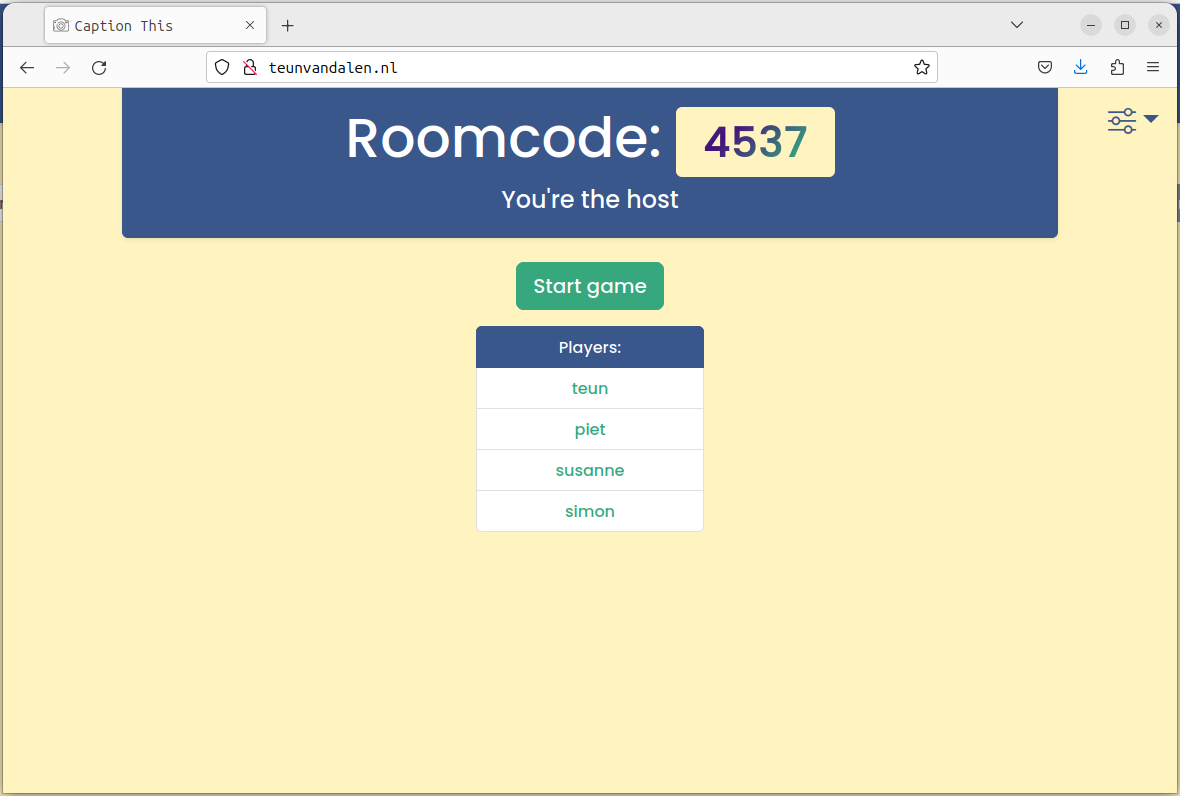
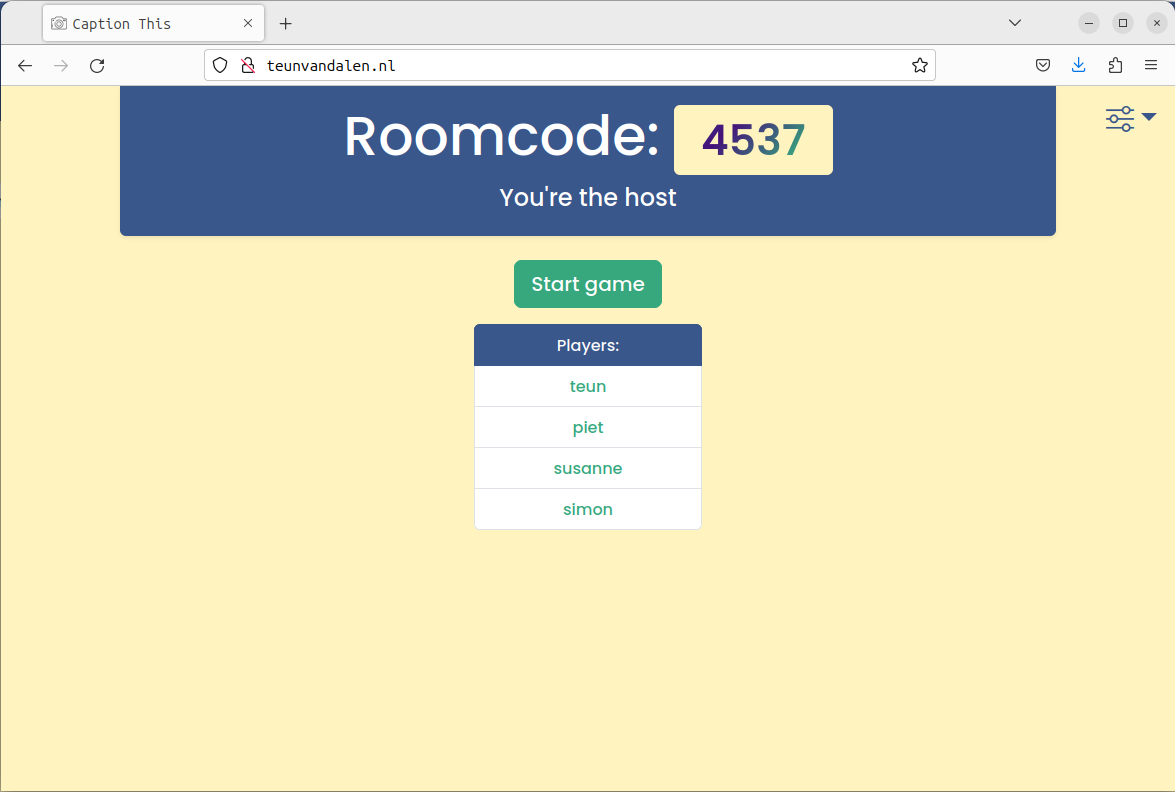
readme

diff --git a/README.md b/README.md
@@ -1,8 +1,8 @@
 ## Caption This
 'Caption This' is a web-based game where players get to caption photos shared by others in real-time, inspired by the Jackbox TV party-games. Each round,players come up with the funniest, quirkiest, or most relevant captions. All players then vote on the caption the like the most. The funniest caption wins the round, and the game continues, ensuring endless laughter and enjoyment. 
 
-<img alt="Game screenshot Host" height="250" style="border-radius: 10px;" src="./client/src/assets/Screenshot_host.png"/>
-<img alt="Game screenshot Player" height="250" style="border-radius: 10px;" src="./client/src/assets/Screenshot_player.png"/>
+<img alt="Game screenshot Host" height="350" style="border-radius: 10px;" src="./client/src/assets/Screenshot_host.png"/>
+<img alt="Game screenshot Player" height="350" style="border-radius: 10px;" src="./client/src/assets/Screenshot_player.png"/>
 
 ## Getting started. 
 Go to http://teunvandalen.nl to play the game. No installing needed. One client creates a room, that device will act as the host/presentation view. Players can join the room with the room code via their mobile phone. Both of these connect with the socket.io server in the server folder.
